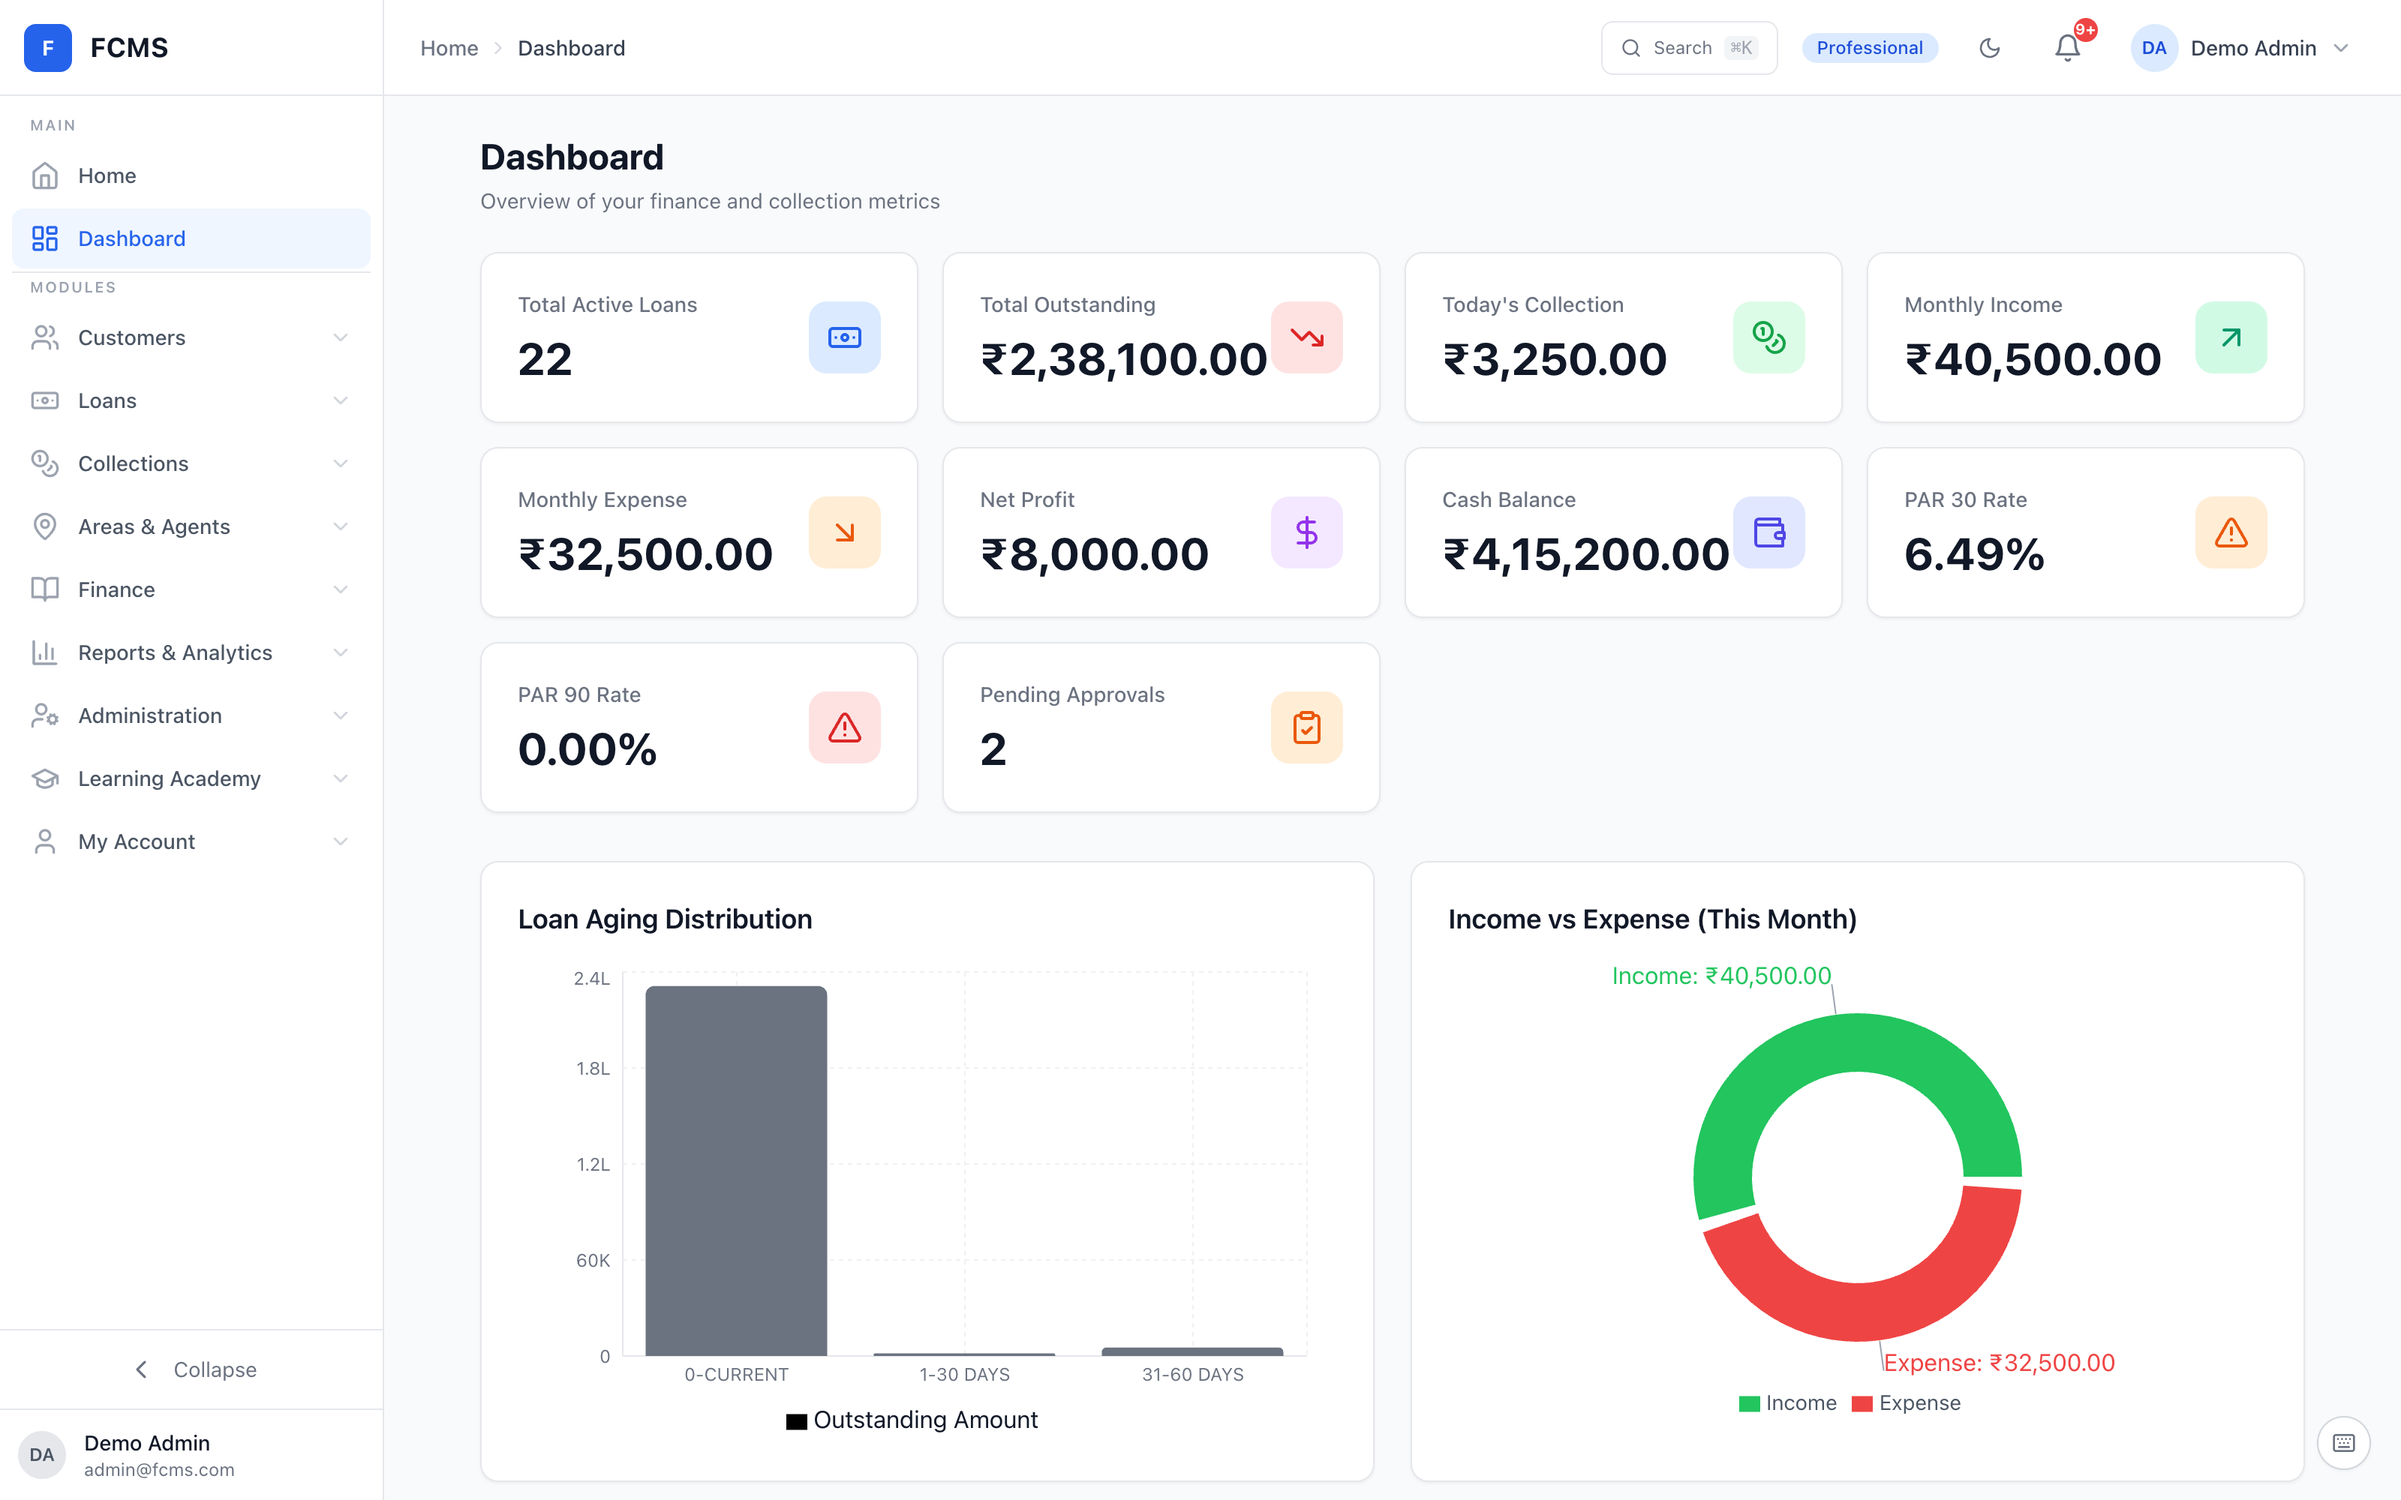
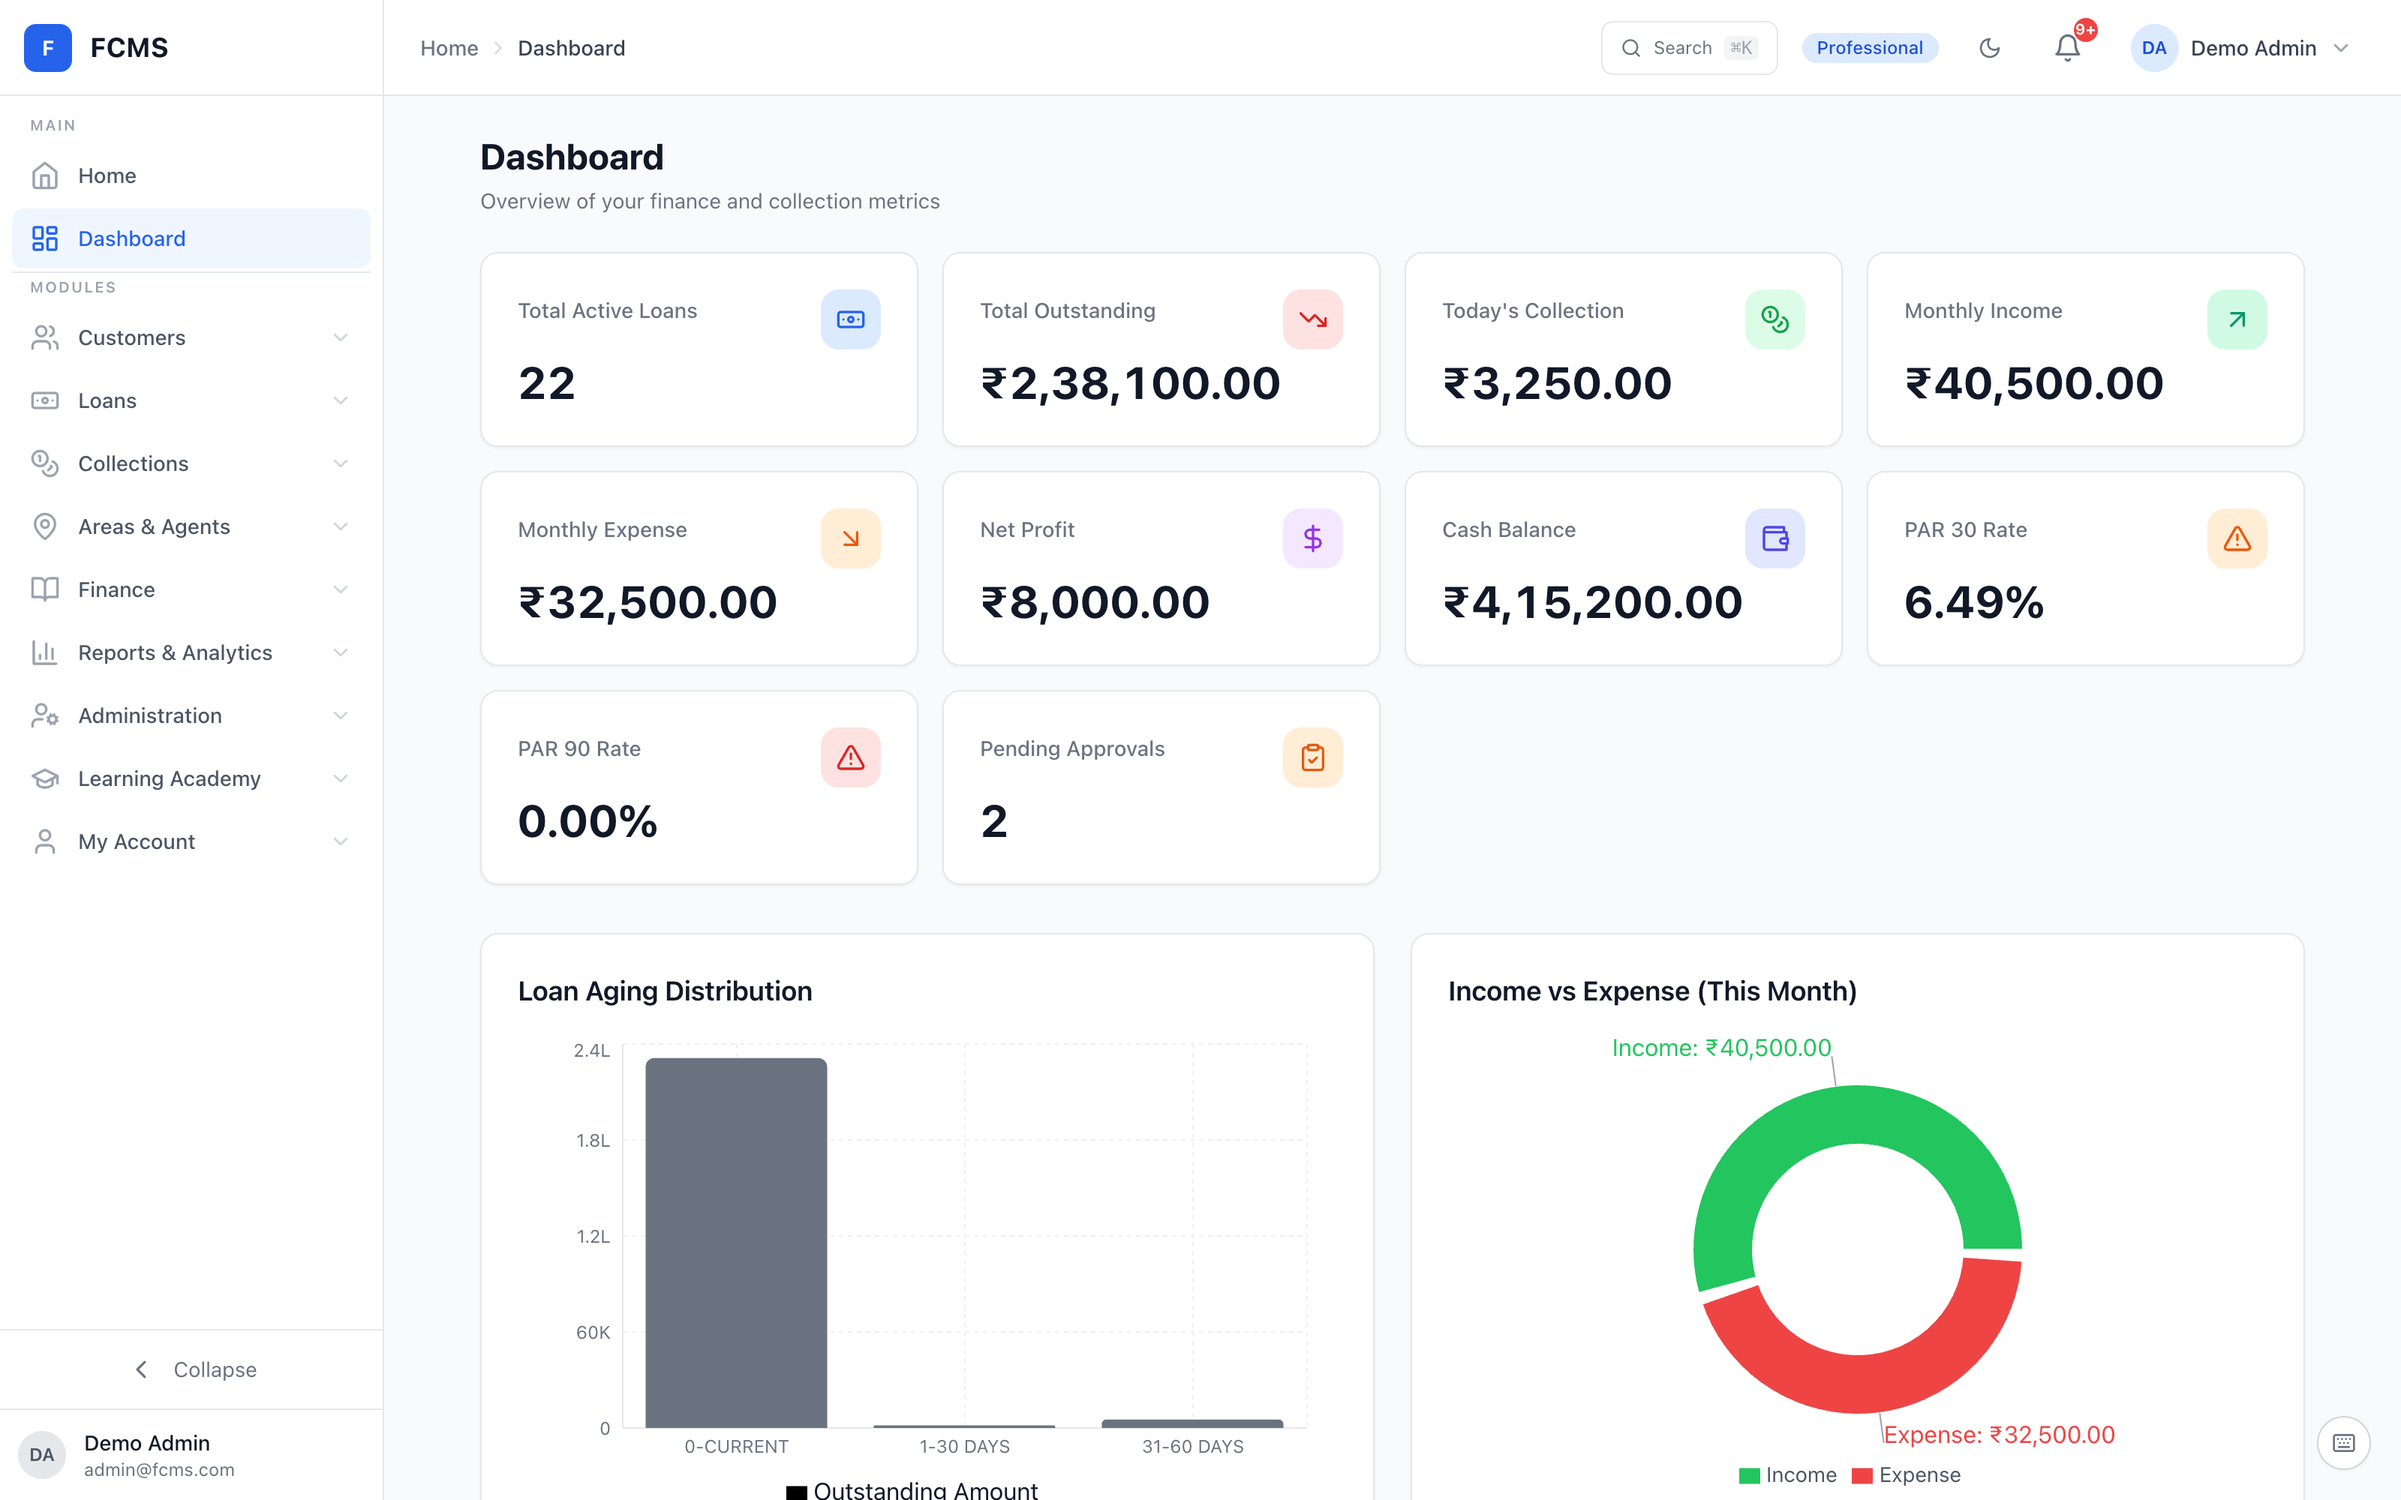
docs: expand features, accounting and limitations; refresh screenshots
Add the loan workflow, accounting, multi-tenancy and route features; correct the
duplicate-payment and commission statements to match the code; add engineering
highlights, test details and known limitations with next steps; replace five
screenshots with current ones (synthetic demo data).

diff --git a/README.md b/README.md
@@ -2,23 +2,44 @@
 
 ## Project Case Study
 
-A full-stack application for managing customers, loans, and daily collections, with a React web interface and a Flutter mobile app for field agents.
+A full-stack platform for lenders who give short-term loans repaid in daily instalments collected in person. Office staff manage customers, loans and accounts in a React web application; field agents follow a daily route and record payments in a Flutter mobile app that keeps working without internet. Every disbursement and collection is posted to the books automatically, so the accounts stay balanced without manual bookkeeping. One installation serves several lending businesses, each with its own isolated data.
 
 ## Business Problem
 
-Daily collection operations need consistent records of loans, payments, outstanding balances, and agent activity. Field agents also need to record collections when internet access is unavailable.
+Daily collection operations need consistent records of loans, payments, outstanding balances and agent activity, and the accounts have to match what was collected in the field. Field agents also need to record collections when internet access is unavailable, and managers need up-to-date figures on collections, overdue loans and portfolio risk.
 
 ## Core Features
 
-- Customer management
-- Loan creation and lifecycle tracking
+**Customers and loans**
+- Customer management with KYC documents
+- Loan products, and loans created directly or through an approval and staged-disbursement workflow
+- Daily repayment schedules generated for each loan
+- Loan lifecycle actions: approve, reject, disburse, close, mark defaulted, classify as non-performing (NPA), write off, foreclose and reschedule
+
+**Collections**
 - Daily collection recording and outstanding balance tracking
-- Role-based access and permission checks
-- Dashboards, analytics, and reports
-- CSV, Excel, and PDF exports
+- Bulk collection entry for many borrowers at once
+- Payments applied to the oldest unpaid instalments first; loans close automatically when fully repaid
+- Areas, area groups, agent assignments and daily route plans for field agents
 - Offline mobile collections with later synchronization
 
+**Accounting**
+- Automatic double-entry journal entries for disbursements and collections
+- Chart of accounts, manual journal entries, and income and expense transactions
+- Bank reconciliation and fiscal periods
+- Financial reports: trial balance, profit and loss, balance sheet, loan outstanding and collection ageing
+- Dashboards and analytics: portfolio KPIs, portfolio-at-risk and collection efficiency
+
+**Platform**
+- Multiple lending businesses (tenants) on one installation, with isolated data
+- Super-admin portal for tenants, subscription plans and billing
+- Role-based access and permission checks
+- Audit log, notifications and global search
+- CSV, Excel and PDF exports
+
 ## Application Screenshots
+
+*Screenshots use synthetic demo data: fictional customers, phone numbers and amounts.*
 
 ### Web Application
 
@@ -64,17 +85,18 @@ Daily collection operations need consistent records of loans, payments, outstand
 
 | Area | Technologies |
 |---|---|
-| Backend | Java 17, Spring Boot, Spring Security |
-| Authentication | JWT, refresh tokens, BCrypt |
-| Database | PostgreSQL |
+| Backend | Java 17, Spring Boot 3.3, Spring Security |
+| Authentication | JWT access and refresh tokens, BCrypt |
+| Database | PostgreSQL (partitioned journal table, materialized views for reports) |
 | Persistence | Spring Data JPA, Hibernate |
 | Database migrations | Flyway |
-| Web frontend | React, TypeScript, Vite, Tailwind CSS |
+| Mapping and rate limiting | MapStruct, Lombok, Bucket4j |
+| Web frontend | React 18, TypeScript, Vite, Tailwind CSS |
 | State and API calls | React Context, Axios |
 | Forms and charts | React Hook Form, Recharts |
-| Mobile | Flutter, Dart, Riverpod, Dio, SQLite |
+| Mobile | Flutter, Dart, Riverpod, go_router, Dio, SQLite |
 | Backend testing | JUnit 5, Mockito, AssertJ |
-| Build and deployment | Maven, shell and Windows batch scripts |
+| Build and deployment | Maven, shell and Windows batch scripts (web app packaged into the backend JAR) |
 
 ## Architecture
 ```mermaid
@@ -85,53 +107,71 @@ flowchart TD
     API["Spring Boot REST API"]
     Security["Spring Security and JWT"]
     Services["Business Service Layer"]
+    Accounting["Double-Entry Journal Posting"]
     Persistence["Spring Data JPA and Hibernate"]
     DB["PostgreSQL"]
+    Reports["Report Views (refreshed on a schedule)"]
 
     Web -->|"HTTPS requests"| API
     Mobile -->|"HTTPS requests and synchronization"| API
     Mobile <-->|"Offline collections"| Local
     API --> Security
     Security --> Services
+    Services --> Accounting
     Services --> Persistence
+    Accounting --> Persistence
     Persistence --> DB
+    DB --> Reports
 ```
 
-The React web application and Flutter mobile application share a Spring Boot backend. Spring Security handles authentication and authorization, while the service layer manages business rules and transactions.
+The React web application and Flutter mobile application share one Spring Boot backend, organised as a modular monolith with a module per business area (customers, loans, collections, journals, ledger, reports, routes, users). Spring Security handles authentication and authorization, while the service layer applies business rules inside database transactions and posts the matching journal entries.
 
-PostgreSQL stores application data through Spring Data JPA and Hibernate. The mobile app queues collections locally in SQLite when offline and synchronizes them when connectivity returns.
+PostgreSQL stores application data through Spring Data JPA and Hibernate. Financial reports read pre-computed views that are refreshed on a schedule, so they stay fast as data grows. The mobile app queues collections locally in SQLite when offline and synchronizes them when connectivity returns. For deployment, the web application is built into the same JAR as the backend and served from it.
 
 ## Business Rules
 
-- A customer can have only one active loan at a time.
+- A customer can have only one active loan at a time; the database enforces this with a partial unique index.
 - A new loan can be created after the existing loan is completed.
-- Loan records track the principal, agent commission, net disbursed amount, daily collection amount, and repayment period.
-- Collections cannot exceed the remaining outstanding balance.
-- Collection validation prevents duplicate payment records.
-- Each collection records its date, amount, collecting agent, and remarks.
+- Loan records track the principal, the upfront commission, the net disbursed amount, the daily collection amount and the repayment period.
+- A collection is accepted only for an active, disbursed loan, and only for a positive amount that does not exceed the remaining outstanding balance.
+- Payments are applied to the oldest unpaid instalments first; a loan closes automatically when its balance reaches zero.
+- Each collection records its date, amount, notes and the user who recorded it.
+- Every disbursement and collection posts a balanced journal entry; edits and deletions post reversing entries instead of changing past records.
+- Every record belongs to one lending business (tenant), and data access is scoped to it.
 - Access to operations is controlled through roles and permissions.
 
 ## Engineering Highlights
 
-- JWT authentication with refresh-token handling
-- Server-side role and permission checks
+- JWT authentication with silent token refresh; concurrent requests wait for a single refresh
+- Server-side role and permission checks on business endpoints
+- Multi-tenant data isolation through tenant-scoped queries and a Hibernate filter
+- Double-entry accounting with immutable journal entries and reversal-based corrections
+- Monetary amounts held as exact decimals (BigDecimal) throughout
+- Database-enforced business rules (one active loan per customer)
+- Monthly-partitioned journal table and scheduled materialized views for reports
 - Request rate limiting
 - Versioned database migrations
 - DTO mapping with MapStruct
 - Service-layer transaction management
 - Offline collection queue and synchronization
+- Secrets kept out of source control: database password and JWT secret come from environment variables or a local, untracked configuration file
 - Automated collection-service tests
 
 ## Testing and Validation
 
-The backend includes collection-service unit tests using JUnit 5, Mockito, and AssertJ, with mocked repositories.
-
-Current automated backend coverage focuses on the collection service. Broader integration and end-to-end testing remain areas for improvement.
+The backend includes 29 unit tests for the collection service using JUnit 5, Mockito and AssertJ, with mocked repositories. They cover validation rules, balance updates, automatic loan closure, allocation of payments to instalments, journal posting failures, edits and deletions with reallocation, and bulk collection results.
 
 ### Current Coverage Limits
 
 - Backend automated tests focus on the collection service.
 - Broader integration and end-to-end testing remain areas for improvement.
+
+## Known Limitations and Next Steps
+
+- **Concurrent payments on the same loan:** two payments recorded at the same moment are not yet serialized. Next step: row-level locking or optimistic versioning on the loan balance.
+- **Duplicate submissions:** a retried request or a re-sent offline collection can be recorded twice. Next step: idempotency keys generated by the web and mobile clients.
+- **Accounting for loan adjustments:** write-offs, foreclosures, waivers and reschedules update loan balances but do not yet post journal entries. Next step: journal postings for these actions.
+- **Test coverage:** extend automated tests to loan, accounting and security flows, and add integration tests against a real database.
 
 ## My Contribution
 
